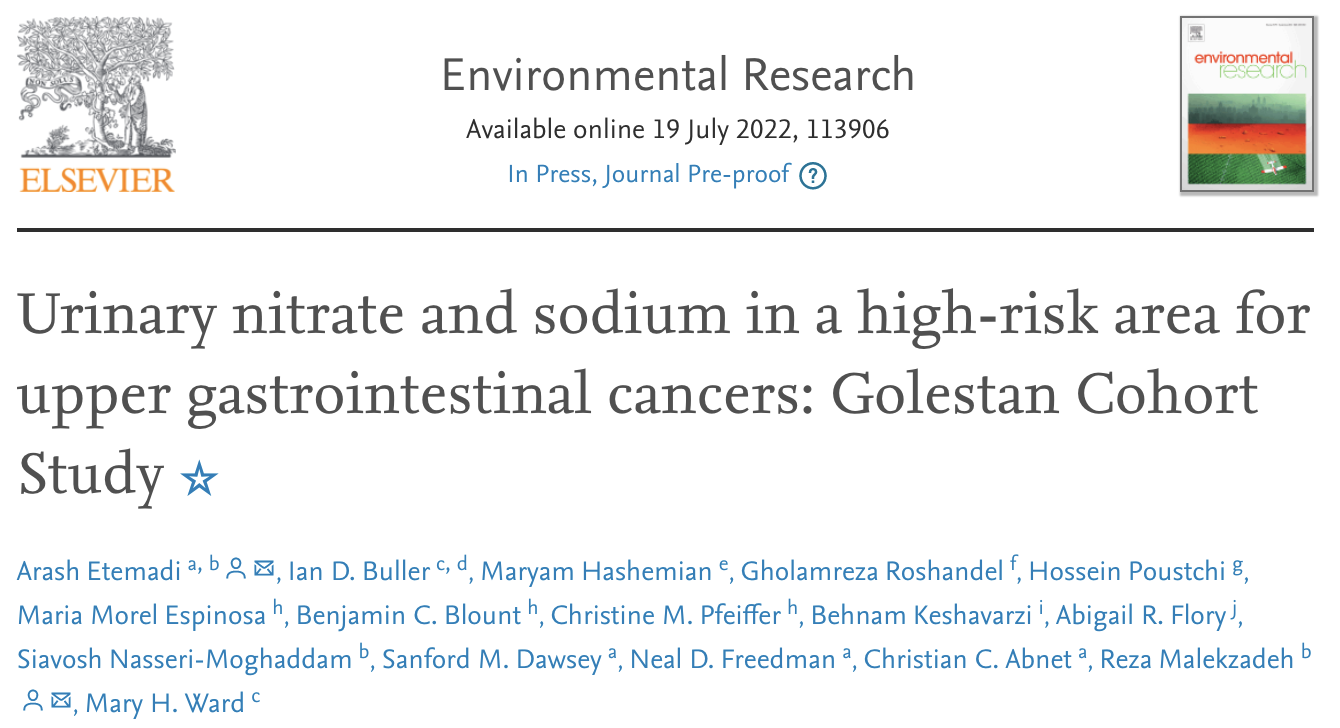
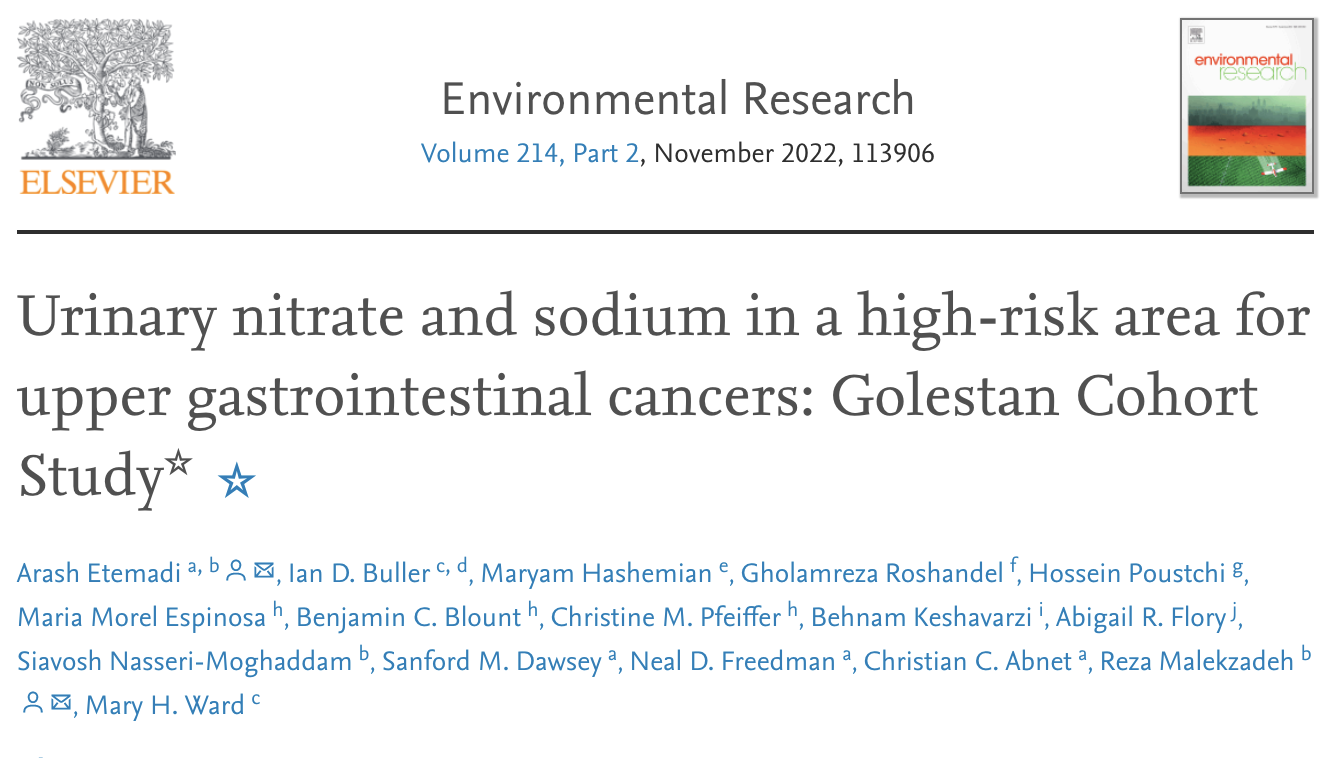
Updated image for 2022-07-19 post
* Manuscript fully published. Updated image with full publication information

diff --git a/content/post/2022-07-19/index.md b/content/post/2022-07-19/index.md
@@ -8,7 +8,7 @@ tags: ["esophageal cancer", "nitrate", "sodium", "drinking water", "Iran"]
 subtitle: ''
 summary: ''
 authors: []
-lastmod: '2022-07-19T07:41:03-04:00'
+lastmod: '2022-08-02T07:41:03-04:00'
 featured: no
 image:
   caption: 'Image credit: [**Environ. Res. article**](https://doi.org/10.1016/j.envres.2022.113906)'
